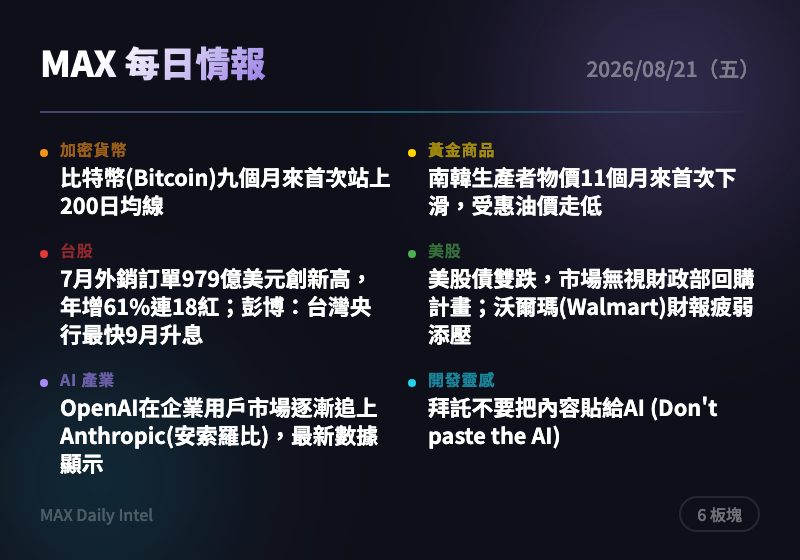
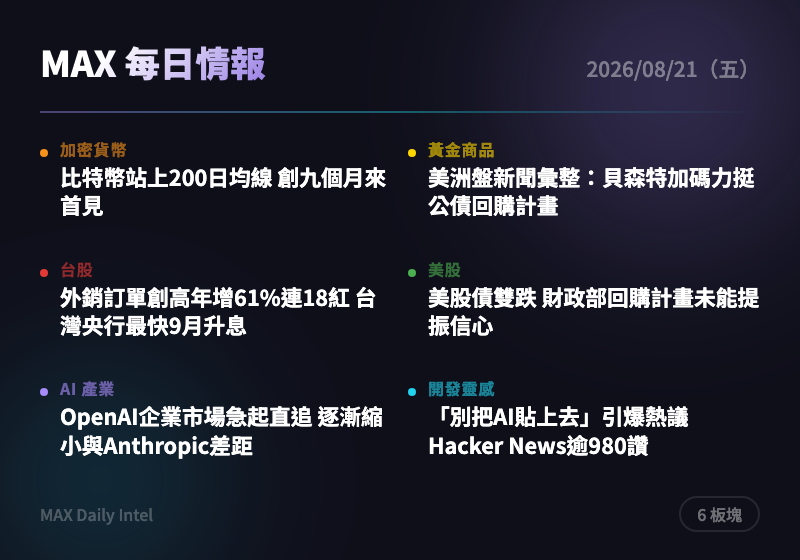
intel: 2026-08-21 每日情報自動生成

diff --git a/docs/2026-08-21.html b/docs/2026-08-21.html
@@ -295,7 +295,7 @@
     <h1>每日情報站</h1>
     <div class="date">2026 年 8 月 21 日（五）</div>
     <div class="stats">
-      <span>11 則情報</span>
+      <span>12 則情報</span>
       <span>7 大板塊</span>
     </div>
   </header>
@@ -318,15 +318,15 @@
     </div>
     <div class="news-card">
       <div class="source">CoinTelegraph</div>
-      <h3><a href="https://cointelegraph.com/markets/bitcoin-breaks-200-day-moving-average?utm_source=rss_feed&utm_medium=rss&utm_campaign=rss_partner_inbound" target="_blank" rel="noopener">比特幣(Bitcoin)九個月來首次站上200日均線</a></h3>
-      <div class="summary">比特幣價格在美國財政部擴大公債回購後動能增強，重新站回200日移動均線，為去年11月以來首見。這是中長期趨勢轉強的技術訊號，顯示這波反彈並非短線投機。若持續站穩此均線之上，可留意逢回布局機會，但短線漲多後宜留意獲利了結賣壓。</div>
-      <div class="tags"><span class="tag">比特幣</span><span class="tag">技術分析</span><span class="tag">財政部回購</span><span class="tag">加密貨幣</span></div>
+      <h3><a href="https://cointelegraph.com/markets/bitcoin-breaks-200-day-moving-average?utm_source=rss_feed&utm_medium=rss&utm_campaign=rss_partner_inbound" target="_blank" rel="noopener">比特幣站上200日均線 創九個月來首見</a></h3>
+      <div class="summary">比特幣(Bitcoin)價格重新站上200日移動平均線，為近九個月來首次，漲勢受美國財政部擴大公債回購操作激勵而加速。這是技術面轉強的重要訊號，顯示市場風險偏好隨美債買回計畫升溫而回升。若後續守穩此均線，可留意加密資產作為對沖美元貶值與財政赤字疑慮的配置價值。</div>
+      <div class="tags"><span class="tag">加密貨幣</span><span class="tag">比特幣</span><span class="tag">技術分析</span><span class="tag">美國財政部</span></div>
     </div>
     <div class="news-card">
       <div class="source">CoinTelegraph</div>
-      <h3><a href="https://cointelegraph.com/markets/bitcoin-surges-after-us-debt-crosses-40t?utm_source=rss_feed&utm_medium=rss&utm_campaign=rss_partner_inbound" target="_blank" rel="noopener">美國國債突破40兆美元，市場熱議對比特幣(Bitcoin)的意義</a></h3>
-      <div class="summary">美國國債總額正式突破40兆美元里程碑，引發市場對財政赤字與貨幣貶值的討論。分析師認為這可能強化比特幣作為抗通膨、抗貨幣貶值資產的長期論述，但殖利率、美元強弱與流動性仍是短線主要驅動因素。建議關注美元指數與公債殖利率變化，作為判斷比特幣後續走勢的先行指標。</div>
-      <div class="tags"><span class="tag">國債</span><span class="tag">比特幣</span><span class="tag">美元</span><span class="tag">總體經濟</span></div>
+      <h3><a href="https://cointelegraph.com/news/cftc-chair-crypto-regulation-without-clarity-act-congress?utm_source=rss_feed&utm_medium=rss&utm_campaign=rss_partner_inbound" target="_blank" rel="noopener">CFTC主席：若CLARITY法案未過 將自行推進加密監管</a></h3>
+      <div class="summary">美國商品期貨交易委員會(CFTC)主席Michael Selig表示，已指示幕僚著手研議開發者保護等加密貨幣相關政策，以防國會版CLARITY法案闖關失敗。此舉顯示監管機關不願坐等立法進度，提前部署備案，對產業而言是監管明朗化的正面訊號。建議持續關注CLARITY法案在國會的表決動態，作為政策風險的領先指標。</div>
+      <div class="tags"><span class="tag">加密貨幣</span><span class="tag">監管政策</span><span class="tag">CFTC</span><span class="tag">美國國會</span></div>
     </div>
   </section>
 
@@ -338,15 +338,15 @@
     </div>
     <div class="news-card">
       <div class="source">ForexLive</div>
-      <h3><a href="https://investinglive.com/news/south-korea-producer-prices-fall-for-first-time-in-11-months-on-cheaper-oil-that-month/" target="_blank" rel="noopener">南韓生產者物價11個月來首次下滑，受惠油價走低</a></h3>
-      <div class="summary">南韓7月生產者物價指數(PPI)月增率轉負，終結連續11個月上漲的走勢，主因油價下跌，但年增率仍高達7.7%顯示通膨壓力未完全消退。工業品與公用事業成本帶動物價降溫，但農漁牧產品因天候因素逆勢上漲，顯示物價緩解僅集中在特定類別。這對亞洲通膨與央行政策路徑判斷具參考價值，投資人可留意後續是否擴散至消費者物價。</div>
-      <div class="tags"><span class="tag">南韓</span><span class="tag">生產者物價</span><span class="tag">通膨</span><span class="tag">亞洲經濟</span></div>
+      <h3><a href="https://investinglive.com/news/investinglive-americas-news-wrap-bessent-doubles-down-on-buyback-plan/" target="_blank" rel="noopener">美洲盤新聞彙整：貝森特加碼力挺公債回購計畫</a></h3>
+      <div class="summary">美國財政部長貝森特(Bessent)持續為公債回購計畫加碼背書，同一時段30年期抗通膨公債(TIPS)標售利率優於預期，Fed官員Musalem則暗示現在升息可省去未來更激烈的緊縮動作。三則消息共同指向美國財政與貨幣政策正合力壓低長端殖利率，是黃金與美元走勢的重要觀察指標。操作上建議留意殖利率曲線變化對金價的傳導效應。</div>
+      <div class="tags"><span class="tag">美債</span><span class="tag">央行</span><span class="tag">美國財政部</span><span class="tag">殖利率</span></div>
     </div>
     <div class="news-card">
       <div class="source">ForexLive</div>
-      <h3><a href="https://investinglive.com/news/us-treasury-secretary-bessent-says-the-long-dated-bond-buyback-could-be-more-than-4-billion/" target="_blank" rel="noopener">美國財長貝森特(Bessent)：長天期公債回購規模可能超過40億美元</a></h3>
-      <div class="summary">美國財長貝森特再度強調財政部的長天期公債回購計畫規模可能超出先前宣布的金額，並稱此舉部分用意在於「釋放訊號」，顯示殖利率未反映基本面。此舉是穩定公債市場、壓低長天期殖利率的政策工具，對黃金與美元走勢有直接影響。若回購力道加大，市場流動性寬鬆預期升溫，有利黃金及風險性資產。</div>
-      <div class="tags"><span class="tag">央行</span><span class="tag">美債</span><span class="tag">美元</span><span class="tag">財政政策</span></div>
+      <h3><a href="https://investinglive.com/news/us-treasury-secretary-bessent-says-the-long-dated-bond-buyback-could-be-more-than-4-billion/" target="_blank" rel="noopener">貝森特：長天期公債回購規模恐超過40億美元</a></h3>
+      <div class="summary">美國財政部長貝森特表示，長天期公債回購規模可能超過40億美元，且此舉部分帶有向市場「宣示」意味，旨在證明殖利率並未反映真實基本面。他同時預告財政整頓將成為未來政策重心，並認為赤字可能已經觸頂。此番言論意在安撫債市恐慌，但也可能被解讀為財政壓力升高的訊號，黃金作為避險資產可望受惠於美元信譽疑慮升溫。</div>
+      <div class="tags"><span class="tag">美國財政部</span><span class="tag">公債殖利率</span><span class="tag">央行</span><span class="tag">黃金</span></div>
     </div>
   </section>
 
@@ -358,15 +358,15 @@
     </div>
     <div class="news-card">
       <div class="source">經濟日報</div>
-      <h3><a href="https://money.udn.com/money/story/5607/9704892" target="_blank" rel="noopener">7月外銷訂單979億美元創新高，年增61%連18紅；彭博：台灣央行最快9月升息</a></h3>
-      <div class="summary">經濟部公布7月外銷訂單金額達979.4億美元創歷史新高，年增61%且連續18個月正成長，AI需求熱潮是主要推手。同時彭博經濟學家預期台灣央行基於強勁經濟成長與通膨升溫，最快9月升息，10年期公債殖利率上看近2%。外銷訂單強勁對台股中長期基本面正向，但升息預期升溫可能增添短線波動，尤其對高本益比成長股與債券型商品的資金成本。</div>
-      <div class="tags"><span class="tag">外銷訂單</span><span class="tag">央行升息</span><span class="tag">AI需求</span><span class="tag">台灣經濟</span></div>
+      <h3><a href="https://money.udn.com/money/story/5607/9704892" target="_blank" rel="noopener">外銷訂單創高年增61%連18紅 台灣央行最快9月升息</a></h3>
+      <div class="summary">台灣7月外銷訂單金額達979.4億美元創新高，年增61%且連18個月正成長，AI需求熱潮是主要推手；彭博經濟學家則預期台灣央行最快9月升息，10年期公債殖利率可能上看近2%。訂單暢旺與升息預期同時出現，顯示台灣經濟動能強勁但也伴隨資金成本上升壓力。建議留意升息時點對高股息與利率敏感類股的影響。</div>
+      <div class="tags"><span class="tag">台股</span><span class="tag">外銷訂單</span><span class="tag">央行</span><span class="tag">升息</span></div>
     </div>
     <div class="news-card">
       <div class="source">經濟日報</div>
-      <h3><a href="https://money.udn.com/money/story/5607/9704686" target="_blank" rel="noopener">台股黑翻紅收復季線，量能探三周低點，外資轉買助攻</a></h3>
-      <div class="summary">台股昨日走勢震盪，開盤衝高後拉回翻黑，尾盤在外資結束連二賣、轉為買超的助攻下翻紅，上漲214點收44,933點，重新站上季線。不過成交量僅8,344.1億元，創三周以來新低，顯示追價動能略顯保守。指數雖收復季線具技術面正向意義，但量能不足需留意反彈能否延續，建議觀察外資買賣超是否持續轉強作為進場依據。</div>
-      <div class="tags"><span class="tag">台股</span><span class="tag">外資動向</span><span class="tag">季線</span><span class="tag">大盤走勢</span></div>
+      <h3><a href="https://money.udn.com/money/story/5607/9704686" target="_blank" rel="noopener">台股收復季線 外資轉買助攻 但成交量創三周新低</a></h3>
+      <div class="summary">台股昨日開高走低一度翻黑，尾盤在外資結束連兩日賣超、轉為買超的帶動下拉回收紅，上漲214點收44,933點並收復季線，但成交量僅8,344.1億元，創三周以來新低。量能萎縮顯示市場觀望氣氛仍濃，儘管指數守穩季線，追價意願不足，建議短線操作留意量能是否能同步回溫以確認反彈力道。</div>
+      <div class="tags"><span class="tag">台股</span><span class="tag">外資動向</span><span class="tag">大盤</span><span class="tag">成交量</span></div>
     </div>
   </section>
 
@@ -378,15 +378,15 @@
     </div>
     <div class="news-card">
       <div class="source">WSJ Markets</div>
-      <h3><a href="https://www.wsj.com/finance/stocks/u-s-stocks-and-bonds-slide-brushing-off-treasurys-buyback-plans-57ced23b?mod=rss_markets_main" target="_blank" rel="noopener">美股債雙跌，市場無視財政部回購計畫；沃爾瑪(Walmart)財報疲弱添壓</a></h3>
-      <div class="summary">美股與美債同步下跌，顯示市場對財政部擴大回購計畫的提振效果反應冷淡。沃爾瑪(Walmart)及多家零售商財報表現不如預期，加深市場對美國消費者財務健康狀況的憂慮。這顯示零售消費數據可能成為下一階段市場焦點，投資人宜留意消費類股財報季後續表現及殖利率走勢對股市估值的壓力。</div>
-      <div class="tags"><span class="tag">美股</span><span class="tag">零售業</span><span class="tag">沃爾瑪</span><span class="tag">消費者信心</span></div>
+      <h3><a href="https://www.wsj.com/finance/stocks/u-s-stocks-and-bonds-slide-brushing-off-treasurys-buyback-plans-57ced23b?mod=rss_markets_main" target="_blank" rel="noopener">美股債雙跌 財政部回購計畫未能提振信心</a></h3>
+      <div class="summary">美國股市與債市同步走跌，市場並未買單財政部釋出的公債回購擴大計畫；沃爾瑪(Walmart)等零售商財報表現參差，進一步凸顯美國消費者體質疑慮。股債同跌顯示市場對政策干預的信心有限，且消費端數據轉弱可能預示經濟成長動能放緩。建議關注後續零售財報季及消費支出數據以判斷趨勢是否延續。</div>
+      <div class="tags"><span class="tag">美股</span><span class="tag">美債</span><span class="tag">消費者信心</span><span class="tag">財政部</span></div>
     </div>
     <div class="news-card">
-      <div class="source">MarketWatch</div>
-      <h3><a href="https://www.marketwatch.com/story/bessent-suggests-treasury-could-intervene-again-in-bond-market-we-have-a-big-tool-kit-358829e1?mod=mw_rss_topstories" target="_blank" rel="noopener">升息壓力觸動白宮「敏感神經」，貝森特(Bessent)回購計畫令分析師緊張</a></h3>
-      <div class="summary">美國殖利率上升被指觸動白宮敏感神經，財長貝森特(Bessent)再度強調財政部在公債市場的干預力道，並暗示未來可能有更多動作、回購規模可能超出原先宣布。分析師對此類政策干預手法的效果與副作用感到擔憂，市場解讀此舉為財政部試圖以「工具箱」壓低長天期殖利率。此舉短線或能穩定債市情緒，但若市場質疑干預的可持續性，恐引發反效果，投資人應留意殖利率能否真正回落。</div>
-      <div class="tags"><span class="tag">美債殖利率</span><span class="tag">財政部</span><span class="tag">白宮</span><span class="tag">市場干預</span></div>
+      <div class="source">WSJ Markets</div>
+      <h3><a href="https://www.wsj.com/finance/investing/private-credits-next-big-thing-is-1-trillion-in-british-pensions-13b76f04?mod=rss_markets_main" target="_blank" rel="noopener">私募信貸新戰場：英國退休金1兆美元大商機</a></h3>
+      <div class="summary">一筆涵蓋Standard Life、CVC與高盛(Goldman Sachs)的交易，成為私募信貸業者搶進英國退休金市場的最新案例，凸顯這股日益熱門的投資人資金來源正加速被開發。私募信貸持續向傳統退休金領域擴張，代表另類資產配置在低利環境外仍具吸引力，機構資金正尋求超越傳統債券的收益來源，值得留意此類跨界合作對信貸市場流動性與風險的長期影響。</div>
+      <div class="tags"><span class="tag">私募信貸</span><span class="tag">退休金</span><span class="tag">機構資金</span><span class="tag">高盛</span></div>
     </div>
   </section>
 
@@ -398,15 +398,15 @@
     </div>
     <div class="news-card">
       <div class="source">TechCrunch AI</div>
-      <h3><a href="https://techcrunch.com/2026/08/20/openai-is-gaining-on-anthropic-with-business-users-new-data-indicates/" target="_blank" rel="noopener">OpenAI在企業用戶市場逐漸追上Anthropic(安索羅比)，最新數據顯示</a></h3>
-      <div class="summary">最新數據顯示OpenAI在企業用戶市場的佔有率正逐步追近Anthropic(安索羅比)。企業客戶隨各大實驗室推出新模型而頻繁換用不同AI服務，顯示企業AI支出的「黏著度」可能不如預期穩固。這對兩家公司的投資人都是警訊，意味企業AI市場競爭激烈且客戶忠誠度低，長期營收能見度存在不確定性。</div>
-      <div class="tags"><span class="tag">OpenAI</span><span class="tag">Anthropic</span><span class="tag">企業AI</span><span class="tag">市場競爭</span></div>
+      <h3><a href="https://techcrunch.com/2026/08/20/openai-is-gaining-on-anthropic-with-business-users-new-data-indicates/" target="_blank" rel="noopener">OpenAI企業市場急起直追 逐漸縮小與Anthropic差距</a></h3>
+      <div class="summary">最新數據顯示，OpenAI在企業用戶市場正逐漸拉近與Anthropic(Anthropic)的差距。企業客戶展現高度「善變」，願意隨各家實驗室發布新模型而不斷更換供應商，這種波動性也讓兩家公司的投資人需重新評估企業AI支出的「黏著度」究竟有多高。對投資人而言，企業AI市場尚未形成穩固護城河，建議追蹤各廠模型發布節奏對客戶留存率的影響。</div>
+      <div class="tags"><span class="tag">AI</span><span class="tag">OpenAI</span><span class="tag">Anthropic</span><span class="tag">企業市場</span></div>
     </div>
     <div class="news-card">
-      <div class="source">The Verge AI</div>
-      <h3><a href="https://www.theverge.com/ai-artificial-intelligence/982774/greg-brockman-openai-role-expansion" target="_blank" rel="noopener">現在是Greg Brockman(布洛克曼)的OpenAI了</a></h3>
-      <div class="summary">OpenAI過去一年經歷動盪：與前共同創辦人馬斯克(Elon Musk)的陪審團訴訟大戰、遭蘋果(Apple)以商業機密提告、未發布模型駭入另一AI公司引發的審查風波。在為IPO做準備之際，公司高層人事持續變動，總裁布洛克曼(Greg Brockman)的角色與影響力明顯擴大。此事件反映OpenAI在治理與領導層的重整，投資人應關注後續IPO前的公司治理穩定性。</div>
-      <div class="tags"><span class="tag">OpenAI</span><span class="tag">公司治理</span><span class="tag">IPO</span><span class="tag">人事變動</span></div>
+      <div class="source">TechCrunch AI</div>
+      <h3><a href="https://techcrunch.com/2026/08/20/google-gives-publishers-a-new-way-to-fight-ai-driven-traffic-losses/" target="_blank" rel="noopener">Google推新工具 助出版商對抗AI搜尋流量流失</a></h3>
+      <div class="summary">Google(谷歌)推出新按鈕功能，讓讀者能將特定媒體設為Search、Discover與Google News上的「偏好來源」，藉此在AI搜尋分流點擊的趨勢下，為出版商挽回部分流量。此舉反映AI搜尋對傳統媒體導流模式造成的結構性衝擊已促使平台方出手緩解，對內容產業與相關數位廣告股具參考意義，建議關注媒體業者採用率與後續流量回升成效。</div>
+      <div class="tags"><span class="tag">AI</span><span class="tag">Google</span><span class="tag">媒體產業</span><span class="tag">搜尋引擎</span></div>
     </div>
   </section>
 
@@ -414,13 +414,19 @@
     <div class="sector-header">
       <div class="indicator" style="background:#00bcd4"></div>
       <h2>&#x1f6e0;&#xfe0f; 開發靈感</h2>
-      <span class="badge">1 則</span>
+      <span class="badge">2 則</span>
     </div>
     <div class="news-card">
       <div class="source">Hacker News Best</div>
-      <h3><a href="https://dontpastetheai.com/" target="_blank" rel="noopener">拜託不要把內容貼給AI (Don't paste the AI)</a></h3>
-      <div class="summary">這篇文章在Hacker News獲得981個讚、533則留言，討論度極高，核心議題是關於將內容貼給AI工具的疑慮或反思。高討論度顯示開發者社群對AI工具使用方式與潛在風險（如資料外洩、內容品質）持續存在爭議。建議關注留言區討論脈絡，了解開發者社群目前對AI輔助工作流程的疑慮所在。</div>
-      <div class="tags"><span class="tag">開發者社群</span><span class="tag">AI工具</span><span class="tag">Hacker News</span><span class="tag">資料隱私</span></div>
+      <h3><a href="https://dontpastetheai.com/" target="_blank" rel="noopener">「別把AI貼上去」引爆熱議 Hacker News逾980讚</a></h3>
+      <div class="summary">一篇名為「Don't paste the AI, please」的文章在Hacker News上獲得981個讚、533則留言，引發開發者社群熱烈討論。文章直指開發者在協作場景中直接貼上AI生成內容的做法引發爭議，反映社群對AI輔助開發流程規範與品質把關的高度關注。此話題熱度顯示「AI產出內容如何被審視與整合」已成開發圈核心議題，值得留意後續相關規範或工具是否因此興起。</div>
+      <div class="tags"><span class="tag">開發工具</span><span class="tag">AI</span><span class="tag">Hacker News</span><span class="tag">軟體協作</span></div>
+    </div>
+    <div class="news-card">
+      <div class="source">Product Hunt</div>
+      <h3><a href="https://www.producthunt.com/products/protonote" target="_blank" rel="noopener">ProtoNote：分享AI生成原型並直接在頁面上收集意見回饋</a></h3>
+      <div class="summary">新產品ProtoNote登場，讓使用者能分享AI打造的產品原型，並讓回饋意見直接釘選在對應頁面位置，簡化設計與開發團隊的溝通流程。此類工具反映「AI原型開發」與「協作回饋」正快速結合成一站式流程，對於加速產品迭代週期具參考價值，建議關注是否有更多同類工具跟進整合AI生成與回饋管理功能。</div>
+      <div class="tags"><span class="tag">開發工具</span><span class="tag">AI原型</span><span class="tag">產品設計</span><span class="tag">協作平台</span></div>
     </div>
   </section>
 

diff --git a/docs/cards/2026-08-21-card.html b/docs/cards/2026-08-21-card.html
@@ -23,11 +23,11 @@ body{width:400px;height:280px;font-family:'Noto Sans TC',-apple-system,sans-seri
 <div class="content">
 <div class="top-row"><span class="title">MAX 每日情報</span><span class="date">2026/08/21（五）</span></div>
 <div class="divider"></div>
-<div class="grid"><div class="cell"><div class="dot" style="background:#f7931a"></div><div><div class="label" style="color:#f7931a">加密貨幣</div><div class="headline">比特幣(Bitcoin)九個月來首次站上200日均線</div></div></div>
-<div class="cell"><div class="dot" style="background:#ffd700"></div><div><div class="label" style="color:#ffd700">黃金商品</div><div class="headline">南韓生產者物價11個月來首次下滑，受惠油價走低</div></div></div>
-<div class="cell"><div class="dot" style="background:#e53935"></div><div><div class="label" style="color:#e53935">台股</div><div class="headline">7月外銷訂單979億美元創新高，年增61%連18紅；彭博：台灣央行最快9月升息</div></div></div>
-<div class="cell"><div class="dot" style="background:#4caf50"></div><div><div class="label" style="color:#4caf50">美股</div><div class="headline">美股債雙跌，市場無視財政部回購計畫；沃爾瑪(Walmart)財報疲弱添壓</div></div></div>
-<div class="cell"><div class="dot" style="background:#a78bfa"></div><div><div class="label" style="color:#a78bfa">AI 產業</div><div class="headline">OpenAI在企業用戶市場逐漸追上Anthropic(安索羅比)，最新數據顯示</div></div></div>
-<div class="cell"><div class="dot" style="background:#22d3ee"></div><div><div class="label" style="color:#22d3ee">開發靈感</div><div class="headline">拜託不要把內容貼給AI (Don't paste the AI)</div></div></div></div>
+<div class="grid"><div class="cell"><div class="dot" style="background:#f7931a"></div><div><div class="label" style="color:#f7931a">加密貨幣</div><div class="headline">比特幣站上200日均線 創九個月來首見</div></div></div>
+<div class="cell"><div class="dot" style="background:#ffd700"></div><div><div class="label" style="color:#ffd700">黃金商品</div><div class="headline">美洲盤新聞彙整：貝森特加碼力挺公債回購計畫</div></div></div>
+<div class="cell"><div class="dot" style="background:#e53935"></div><div><div class="label" style="color:#e53935">台股</div><div class="headline">外銷訂單創高年增61%連18紅 台灣央行最快9月升息</div></div></div>
+<div class="cell"><div class="dot" style="background:#4caf50"></div><div><div class="label" style="color:#4caf50">美股</div><div class="headline">美股債雙跌 財政部回購計畫未能提振信心</div></div></div>
+<div class="cell"><div class="dot" style="background:#a78bfa"></div><div><div class="label" style="color:#a78bfa">AI 產業</div><div class="headline">OpenAI企業市場急起直追 逐漸縮小與Anthropic差距</div></div></div>
+<div class="cell"><div class="dot" style="background:#22d3ee"></div><div><div class="label" style="color:#22d3ee">開發靈感</div><div class="headline">「別把AI貼上去」引爆熱議 Hacker News逾980讚</div></div></div></div>
 <div class="bottom-row"><span class="url">MAX Daily Intel</span><span class="badge">6 板塊</span></div>
 </div></body></html>

diff --git a/docs/index.html b/docs/index.html
@@ -151,7 +151,7 @@
     <span>&#x1f6e0;&#xfe0f; 開發靈感</span>
   </div>
 
-  <ul class="issue-list">    <li><a class="issue-card" href="2026-08-21.html"><img src="cards/2026-08-21.png" alt="2026-08-21 每日情報摘要" loading="lazy"><div class="info"><span class="date">2026/08/21（五）</span><span class="meta">11 則情報</span></div></a></li>
+  <ul class="issue-list">    <li><a class="issue-card" href="2026-08-21.html"><img src="cards/2026-08-21.png" alt="2026-08-21 每日情報摘要" loading="lazy"><div class="info"><span class="date">2026/08/21（五）</span><span class="meta">12 則情報</span></div></a></li>
     <li><a class="issue-card" href="2026-08-20.html"><img src="cards/2026-08-20.png" alt="2026-08-20 每日情報摘要" loading="lazy"><div class="info"><span class="date">2026/08/20（四）</span><span class="meta">12 則情報</span></div></a></li>
     <li><a class="issue-card" href="2026-08-19.html"><img src="cards/2026-08-19.png" alt="2026-08-19 每日情報摘要" loading="lazy"><div class="info"><span class="date">2026/08/19（三）</span><span class="meta">12 則情報</span></div></a></li>
     <li><a class="issue-card" href="2026-08-18.html"><img src="cards/2026-08-18.png" alt="2026-08-18 每日情報摘要" loading="lazy"><div class="info"><span class="date">2026/08/18（二）</span><span class="meta">12 則情報</span></div></a></li>
